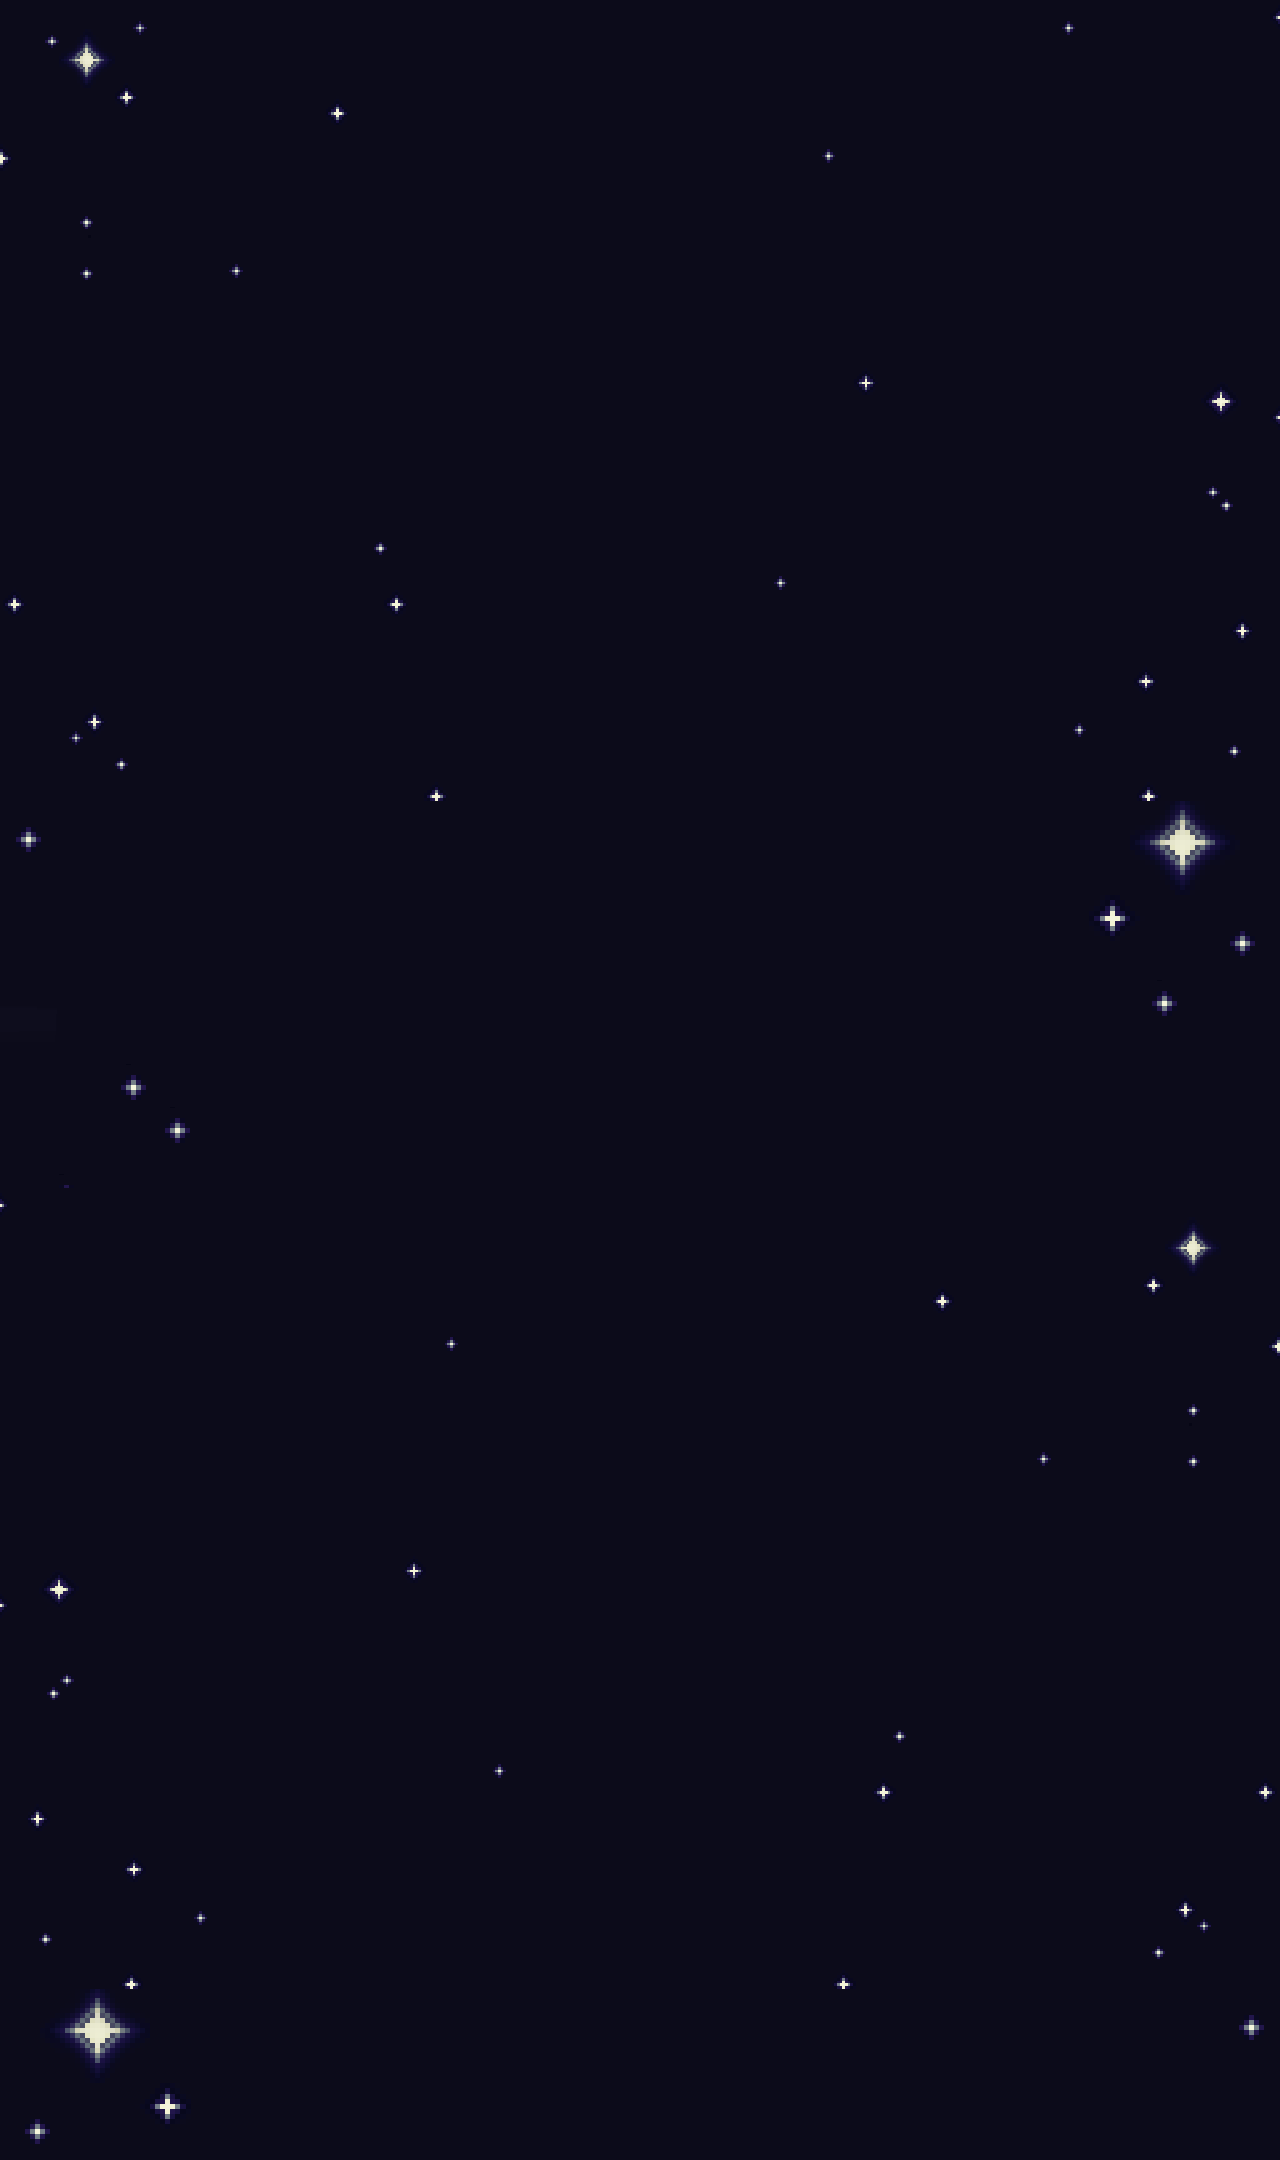
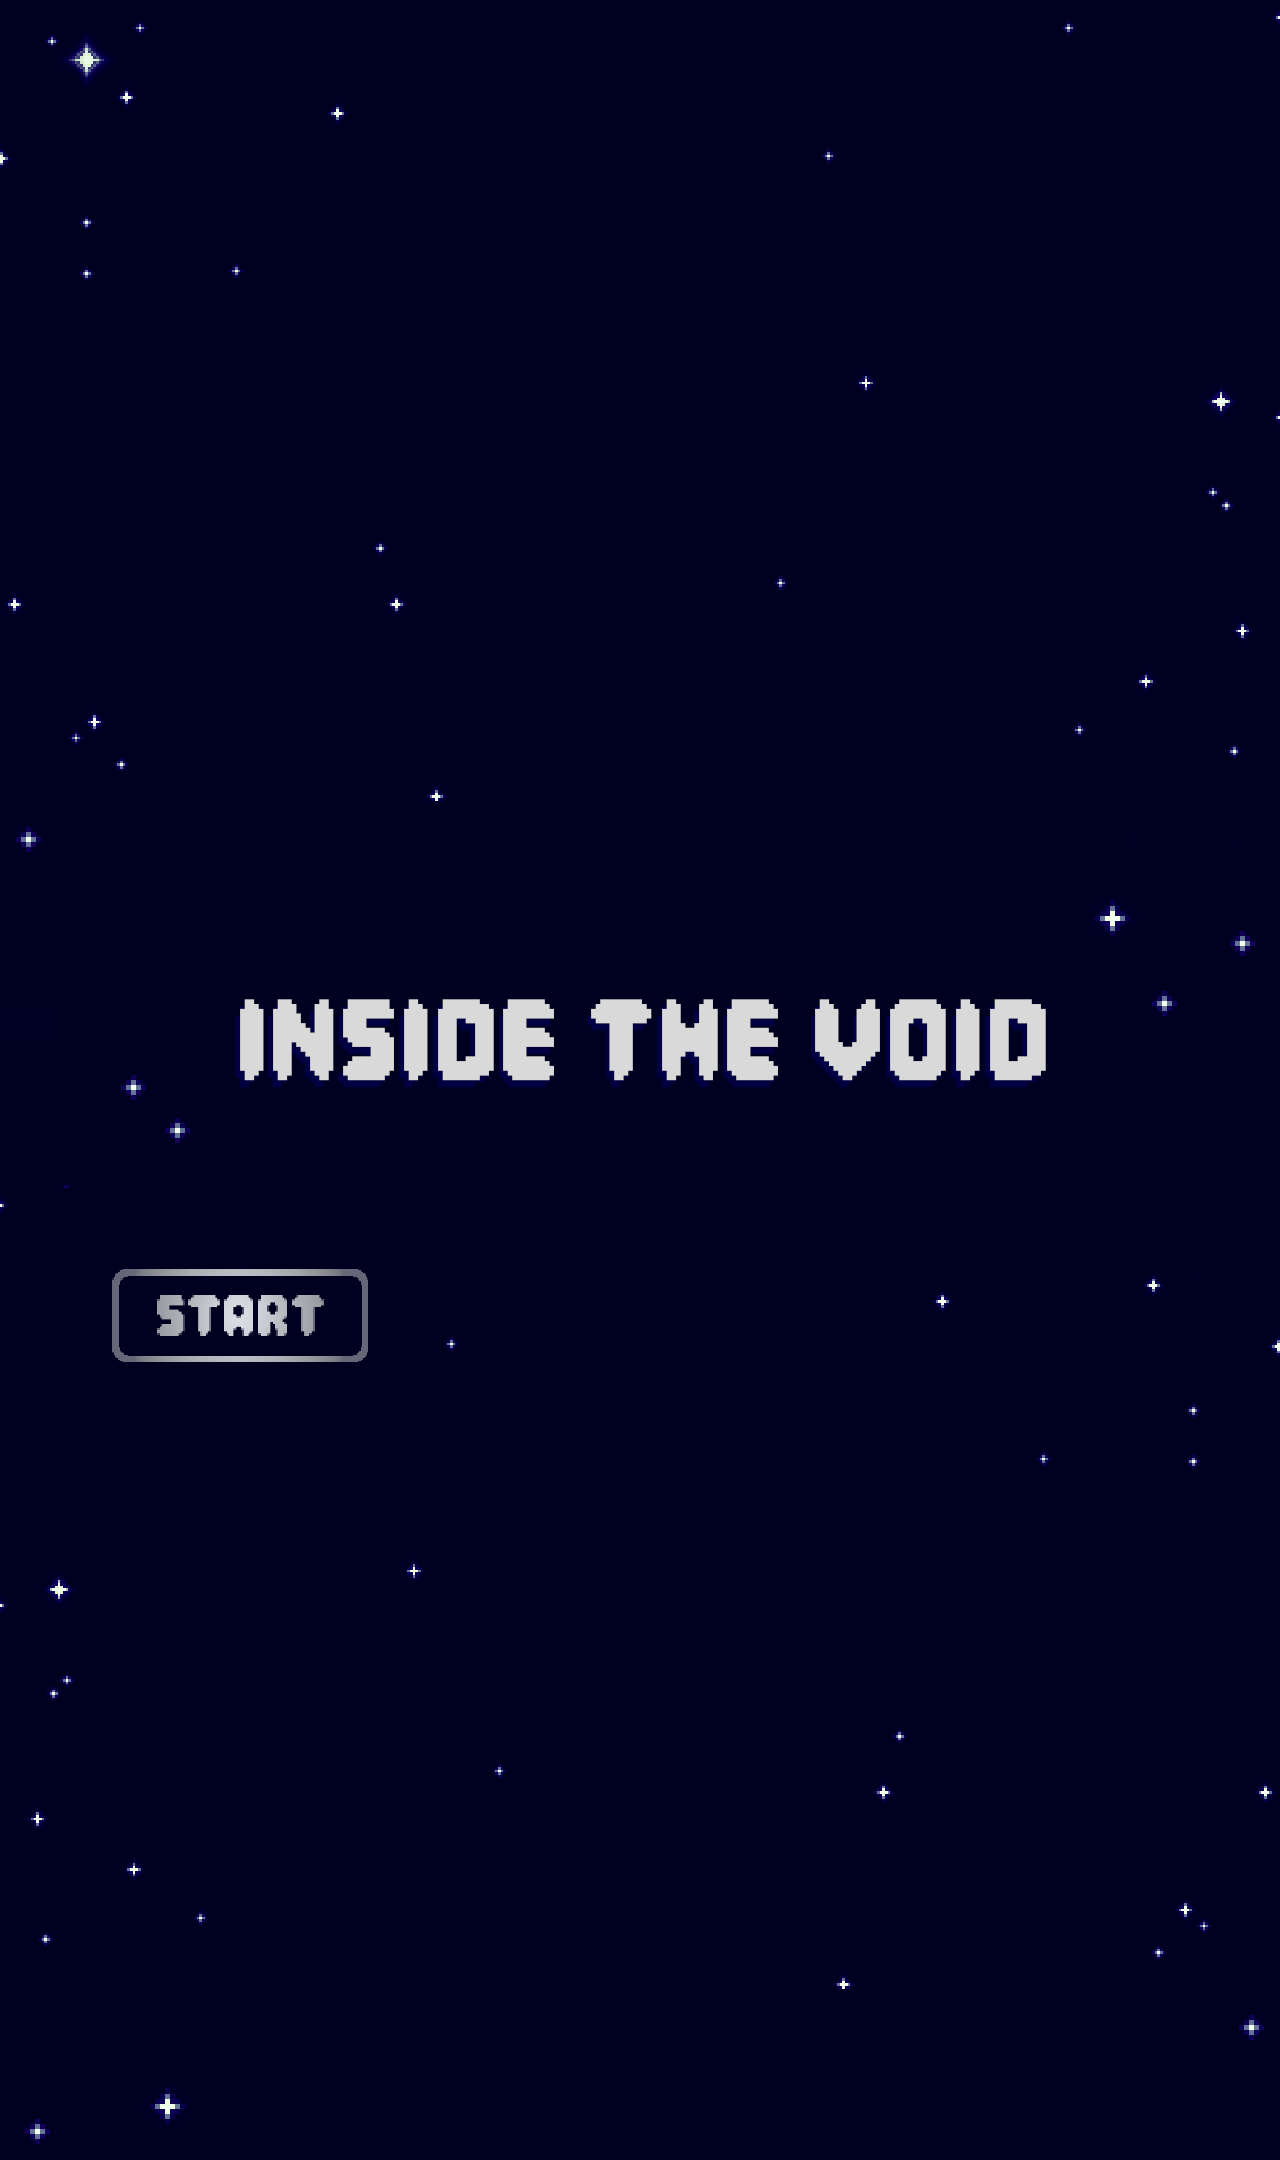
Assets

diff --git a/NameHere/sketch.js b/NameHere/sketch.js
@@ -151,8 +151,10 @@ function menuTransitions() {
 
   cameraY = lerp(cameraY, targetY, menuTransitionSpeed);
   if (abs(cameraY - targetY) < 1) {
-    if (targetY === gameYPos) {
-      gameState = "game";
+  if (targetY === gameYPos) {
+  gameState = "game";
+  gameFade = 255;     // start fully black
+  isFadingIn = true;  // enable fade-in
     } else if (targetY === instructYPos) {
       gameState = "instructions";
     } else {
@@ -184,6 +186,7 @@ image(selectedMainMenuImg, 0, 0, 1280, 720);
     pauseMenuState();
     return; 
   }
+
   // Spaceship loop
   let hb = spaceship.getHitbox();
   spaceship.update();